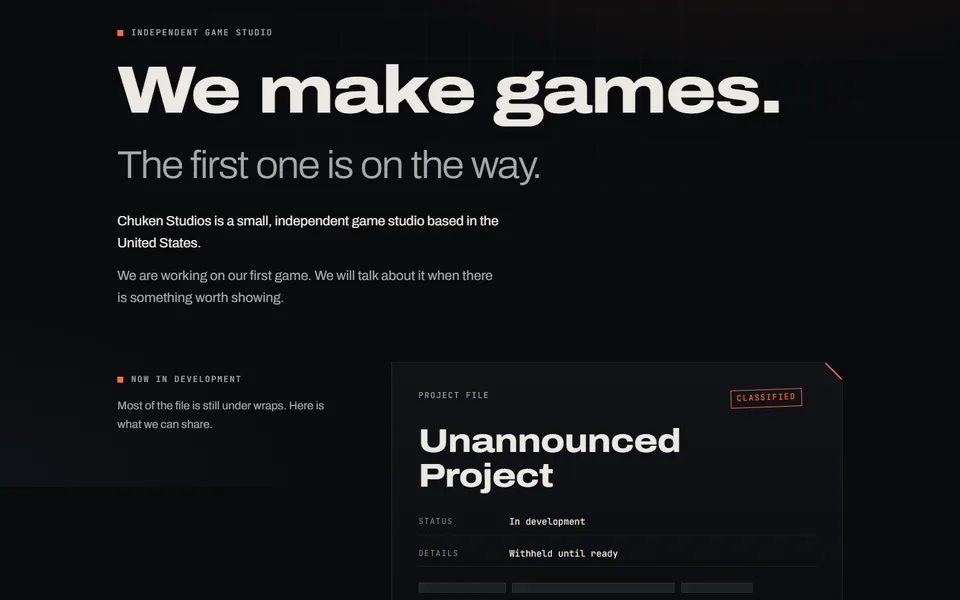
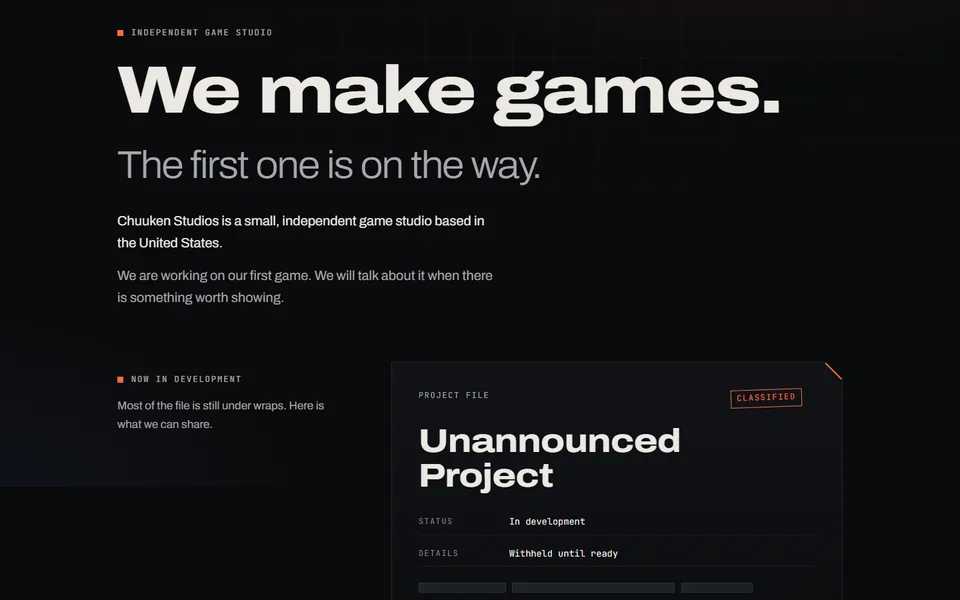
Rename the studio to Chuuken Studios
The nav, the hero, the Experience entry and its $chuuken ref, two card
titles, the console's name and whoami, and the studio site card's image,
retaken from the renamed site.

Changed region(s): [[0.125, 0.36, 0.5312, 0.42]]

diff --git a/src/scripts/console.ts b/src/scripts/console.ts
@@ -1,4 +1,4 @@
-/** The Chuken console: the tilde key or the action bar's console slot opens it. DOM wiring only; the commands live in lib/commands.ts. */
+/** The Chuuken console: the tilde key or the action bar's console slot opens it. DOM wiring only; the commands live in lib/commands.ts. */
 import { createCommands, runCommand, type ConsoleContext, type ConsoleData } from './lib/commands';
 import { isTyping } from './actionbar';
 import { filterBoard } from './board';
@@ -61,7 +61,7 @@ export function initConsole(data: ConsoleData): void {
     panel!.hidden = false;
     setExpanded(true);
     if (!out!.childNodes.length)
-      ctx.print(`Chuken console v${document.documentElement.dataset.version ?? ''}. Type help.`, true);
+      ctx.print(`Chuuken console v${document.documentElement.dataset.version ?? ''}. Type help.`, true);
     input!.focus();
   }
 

diff --git a/src/data/career.ts b/src/data/career.ts
@@ -16,10 +16,10 @@ export interface Job {
 
 export const jobs: readonly Job[] = [
   {
-    ref: '$chuken',
+    ref: '$chuuken',
     when: 'FEB 2026 – PRESENT',
     title: 'Independent Game Developer',
-    org: 'Chuken Studios',
+    org: 'Chuuken Studios',
     breakdown: 'runefall',
     summary:
       'Building Runefall, a classless multiplayer RPG, on my own: a deterministic, server-authoritative 60 Hz simulation that runs 41 matches on one CPU core, online over Steam with lag compensation and reconnect, and 5,000+ xUnit tests.',

diff --git a/src/data/projects.ts b/src/data/projects.ts
@@ -434,7 +434,7 @@ export const projects: readonly Project[] = [
   },
   {
     ref: '$studio',
-    title: 'Chuken Studios website',
+    title: 'Chuuken Studios website',
     deck: 'tools',
     quality: 'legend',
     state: { kind: 'progress', label: 'Unannounced' },
@@ -451,7 +451,7 @@ export const projects: readonly Project[] = [
   },
   {
     ref: '$pipe',
-    title: 'Chuken Studios pipeline',
+    title: 'Chuuken Studios pipeline',
     deck: 'tools',
     quality: 'epic',
     state: { kind: 'live', label: 'Running' },

diff --git a/tests/unit/data.test.ts b/tests/unit/data.test.ts
@@ -150,7 +150,7 @@ describe('Runefall', () => {
 
 describe('career and life', () => {
   it("follows the résumé's order, keeps the QA internship, and stays to one line a role", () => {
-    expect(jobs.map((j) => j.ref)).toEqual(['$chuken', '$bigfix', '$trader', '$freelance', '$qa', '$ucsc']);
+    expect(jobs.map((j) => j.ref)).toEqual(['$chuuken', '$bigfix', '$trader', '$freelance', '$qa', '$ucsc']);
     for (const j of jobs) if (j.summary) expect(j.summary.length, j.ref).toBeLessThanOrEqual(240);
   });
 

diff --git a/src/scripts/lib/commands.ts b/src/scripts/lib/commands.ts
@@ -75,7 +75,7 @@ export function createCommands(data: ConsoleData): Record<string, Command> {
       summary: 'who built this',
       run(ctx) {
         ctx.print(
-          `${data.name}. Gameplay and full-stack engineer. Independent game developer, Chuken Studios. Los Angeles.`,
+          `${data.name}. Gameplay and full-stack engineer. Independent game developer, Chuuken Studios. Los Angeles.`,
         );
       },
     },

diff --git a/src/data/site.ts b/src/data/site.ts
@@ -2,7 +2,7 @@
 
 export const site = {
   name: 'Alexander Shaham',
-  studio: 'Chuken Studios',
+  studio: 'Chuuken Studios',
   title: 'Alexander Shaham: gameplay and full-stack engineer',
   description:
     'Alexander Shaham is a gameplay and full-stack engineer who builds real-time multiplayer games and the web tools around them. Building Runefall, a competitive arena RPG; formerly a software engineer at HCL BigFix.',
